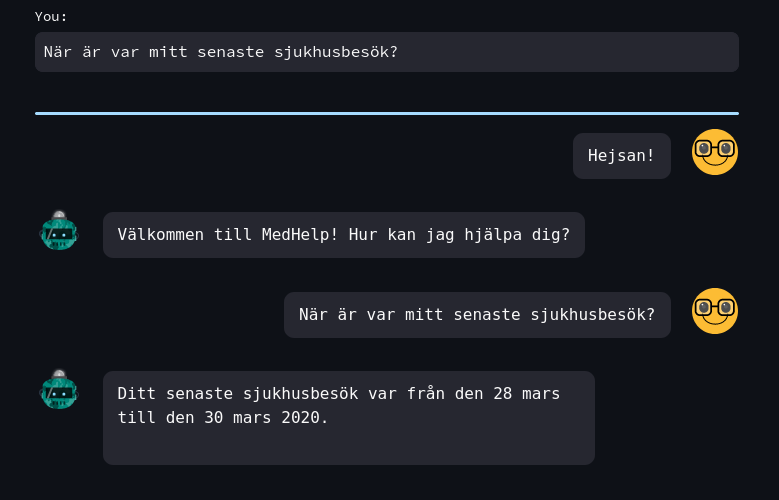
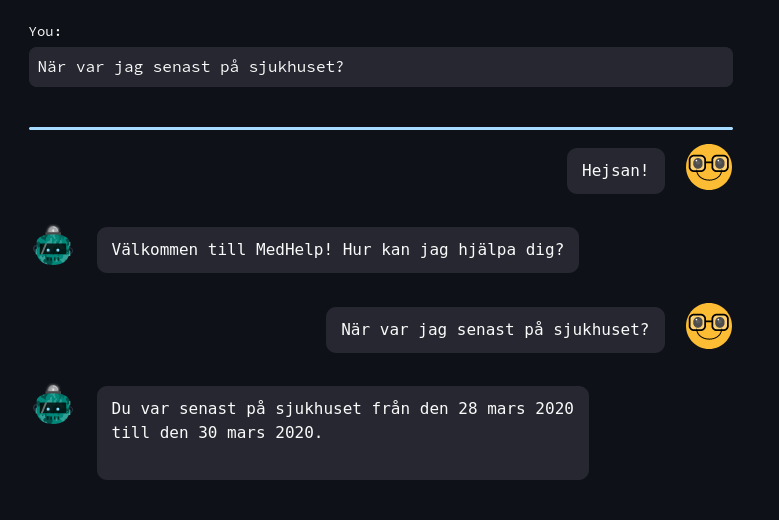
cropped/fixed image, fixed typo in sample dialogue, now included in readme

diff --git a/README.md b/README.md
@@ -1,7 +1,7 @@
-<h1 style="text-align: center;">MedHelp</h1>
+<h1 align= center>MedHelp</h1>
 
 
-![](img/patientdialogue.png "Example of patient dialogue")
+![](img/MedHelp2.png "Example of patient dialogue")
 
 ![Python](https://img.shields.io/badge/python-3670A0?style=for-the-badge&logo=python&logoColor=ffdd54)
 ![ChatGPT](https://img.shields.io/badge/chatGPT-74aa9c?style=for-the-badge&logo=openai&logoColor=white)
@@ -17,6 +17,8 @@ This is one of three projects produced as of AI Swedens "GPT Summer Internship" 
 MedHelp is designed primarily with swedish in mind.
 
 🔗 [Link to blog]( https://my.ai.se/projects/287)
+
+![](img/patientdialogue.png "Example of patient dialogue")
 
 ## Table of Contents 
 - [Table of Contents](#table-of-contents)
